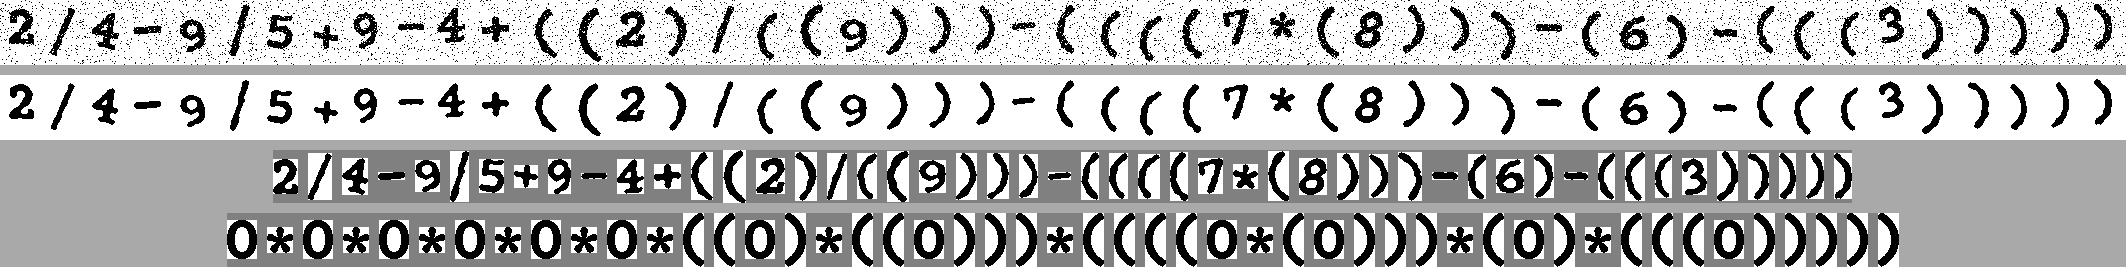
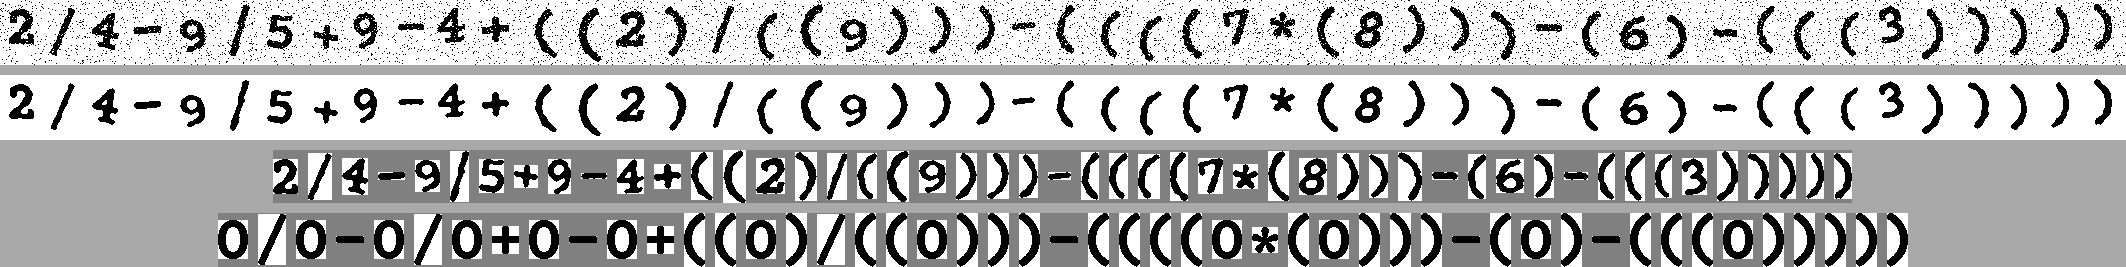
add operator crassifier

Changed region(s): [[0.0931, 0.779, 0.9003, 1.0]]

diff --git a/X/X.cs b/X/X.cs
@@ -264,7 +264,6 @@ public class CharactorParser
     {
         var reduced = img.ReduceRotate(30);
         if (reduced.Ratio < BracketRatioMinThreshold) return false;
-        reduced = reduced.Separate().First();
         var edgeCenter = reduced.VerticalCutCenter(0);
         return reduced.Ratio < BracketRatioMaxThreshold &&
             Math.Abs(edgeCenter - 0.5) < 0.15;
@@ -274,15 +273,35 @@ public class CharactorParser
     {
         var reduced = img.ReduceRotate(30);
         if (reduced.Ratio < BracketRatioMinThreshold) return false;
-        reduced = reduced.Separate().First();
         var edgeCenter = reduced.VerticalCutCenter(1);
         return reduced.Ratio < BracketRatioMaxThreshold &&
             Math.Abs(edgeCenter - 0.5) < 0.2;
     }
 
+    const double MinusRatioMaxThreshold = 0.6;
+    const double DivideRatioMinThreshold = 2;
     private char ClassifyOperator(Image img)
     {
-        return '*';
+        if (img.Ratio < MinusRatioMaxThreshold) return '-';
+        var reduced = img.ReduceRotate(30).Separate().First();
+        if (DivideRatioMinThreshold < reduced.Ratio) return '/';
+
+        int bottomCount = img.HorizontalCutCount(0.95);
+        if (bottomCount >= 2) return '*';
+
+        int count1 = img.HorizontalCutCount(0.2);
+        int count2 = img.HorizontalCutCount(0.8);
+        int count3 = img.VerticalCutCount(0.2);
+        int count4 = img.VerticalCutCount(0.8);
+        if ((count1 | count2 | count3 | count4) >= 2) return '*';
+
+        int sum1 = img.SumArea(0, 0.15, 0, 0.15);
+        int sum2 = img.SumArea(0.85, 1, 0, 0.15);
+        int sum3 = img.SumArea(0, 0.15, 0.85, 1);
+        int sum4 = img.SumArea(0.85, 1, 0.85, 1);
+        if ((sum1 | sum2 | sum3 | sum4) >= 4) return '*';
+
+        return '+';
     }
 
     private char ClassifyNumber(Image img)
@@ -348,6 +367,22 @@ public static class Cut
                 verts.Add(i);
         
         return verts.Count == 0 ? 0.5 : verts.Average() / image.W;
+    }
+}
+
+public static class Area
+{
+    public static int SumArea(this Image image, double yd, double yu, double xd, double xu)
+    {
+        int xMin = (int)Math.Round((image.W - 1) * xd);
+        int xMax = (int)Math.Round((image.W - 1) * xu);
+        var yMin = (int)Math.Round((image.H - 1) * yd);
+        var yMax = (int)Math.Round((image.H - 1) * yu);
+        var res = 0;
+        for (int y = yMax; y <= yMax; y++)
+            for (int x = xMin; x <= xMax; x++)
+                if (image[y, x]) res++;
+        return res;
     }
 }
 
